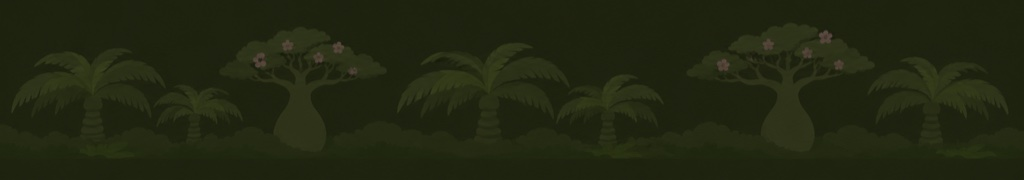
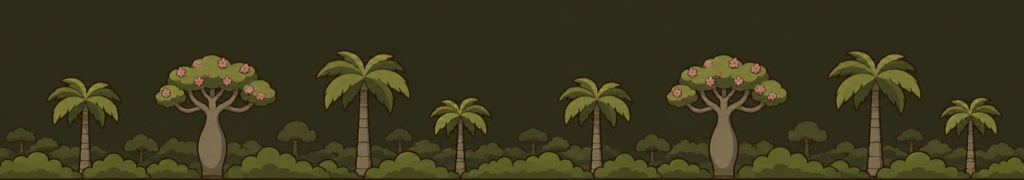
feat(embolsau): pista y fondo en estilo caricatura (v2)
La tierra dibujada conserva sus proporciones: 20 m de ancho, repetida a lo
ancho y a lo alto dentro de la pista, en vez de estirarse.

Changed region(s): [[0.0, 0.2222, 1.0, 1.0], [0.25, 0.6667, 0.3125, 0.7778], [0.75, 0.1667, 0.8125, 0.25]]

diff --git a/modules/embolsau/src/web/race-canvas.ts b/modules/embolsau/src/web/race-canvas.ts
@@ -139,8 +139,17 @@ export function drawRace(
     for (const x of tileStarts(camX * pxPerMeter * BACKDROP_PARALLAX, tileW, w)) ctx.drawImage(scenery.backdrop, x, 0, tileW, top);
   }
   if (scenery?.track.complete && scenery.track.naturalWidth > 0) {
+    // 20 m wide, keeping the drawing's proportions, repeated across and down inside the track.
     const tileW = TRACK_TILE_METERS * pxPerMeter;
-    for (const x of tileStarts(camX * pxPerMeter, tileW, w)) ctx.drawImage(scenery.track, x, top, tileW + 1, bottom - top);
+    const tileH = (tileW * scenery.track.naturalHeight) / scenery.track.naturalWidth;
+    ctx.save();
+    ctx.beginPath();
+    ctx.rect(0, top, w, bottom - top);
+    ctx.clip();
+    for (let y = top; y < bottom; y += tileH) {
+      for (const x of tileStarts(camX * pxPerMeter, tileW, w)) ctx.drawImage(scenery.track, x, y, tileW + 1, tileH + 1);
+    }
+    ctx.restore();
   } else {
     ctx.fillStyle = COLORS.pista;
     ctx.fillRect(0, top, w, bottom - top);

diff --git a/modules/embolsau/src/web/art.ts b/modules/embolsau/src/web/art.ts
@@ -31,7 +31,7 @@ export const ART: Record<Animal, { run: string; down: string; icon: string }> = 
 export const BAGS = ['#D63A72', '#FFC629', '#0B8048', '#8A5CF0', '#C9A46A', '#3FA7D6'];
 
 /**
- * The scenery: dark earth for the track (seamless, 20 m wide) and the Santa Cruz flora behind it
- * (motacú and toborochi, seamless), both by the maintainer.
+ * The scenery, cartoon style like the critters: drawn earth for the track (seamless, 20 m wide) and
+ * the Santa Cruz flora behind it (motacú and toborochi, seamless), both by the maintainer.
  */
 export const SCENERY = { track: track.src, backdrop: backdrop.src };
